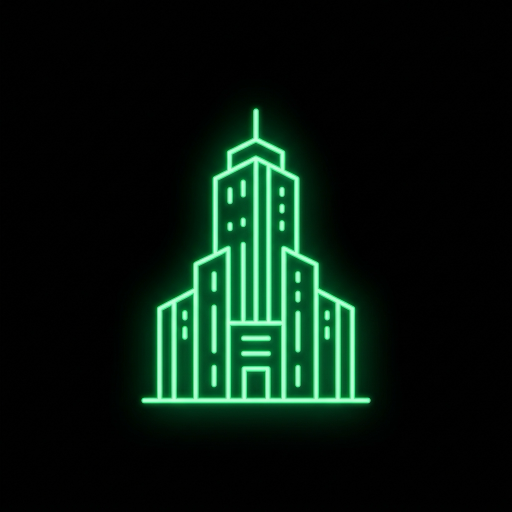
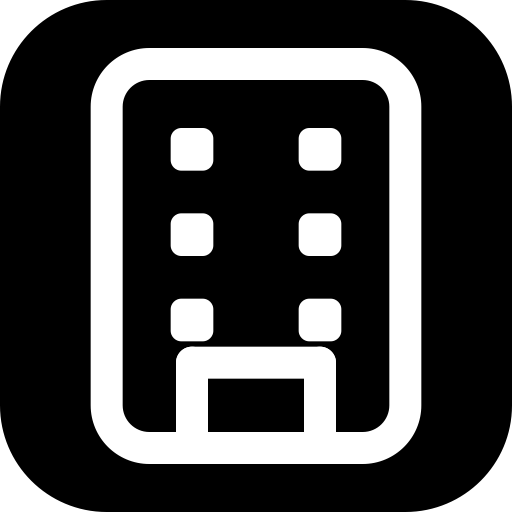
style: suppression des liserais colorés sur le manifeste/les cartes et passage des icônes de l'application en noir et blanc

diff --git a/css/components.css b/css/components.css
@@ -148,44 +148,16 @@
     height: 100%;
     position: relative;
     cursor: pointer;
-    background: var(--bg-tertiary);
+    background: var(--bg-secondary);
     border: 1px solid var(--border-color);
     transition: all var(--transition-normal);
     overflow: hidden;
-}
-
-/* Left accent border by status */
-.elevator-card::before {
-    content: '';
-    position: absolute;
-    left: 0;
-    top: 0;
-    bottom: 0;
-    width: 3px;
-    border-radius: 3px 0 0 3px;
-    background: var(--border-color);
-    transition: background var(--transition-normal), box-shadow var(--transition-normal);
+    box-shadow: 0 1px 3px rgba(15, 23, 42, 0.02), 0 1px 2px rgba(15, 23, 42, 0.04);
 }
 
 .elevator-card:hover {
-    transform: translateY(-3px);
-    border-color: var(--border-hover);
-    box-shadow: 0 12px 32px rgba(0, 0, 0, 0.4);
-}
-
-/* Status-colored left borders */
-.elevator-card:has(.badge-functional)::before {
-    background: var(--color-success);
-}
-
-.elevator-card:has(.badge-broken)::before {
-    background: var(--color-danger);
-    box-shadow: 0 2px 8px rgba(239, 68, 68, 0.25);
-    animation: pulseDanger 2s infinite;
-}
-
-.elevator-card:has(.badge-maintenance)::before {
-    background: var(--color-warning);
+    border-color: var(--accent-primary-border);
+    box-shadow: 0 4px 12px rgba(15, 23, 42, 0.04), 0 2px 4px rgba(15, 23, 42, 0.02);
 }
 
 .card-header {
@@ -1168,24 +1140,8 @@ textarea:focus {
 
 /* ── WELCOME / MANIFESTE ── */
 .welcome-association {
-    background: var(--bg-tertiary);
-    border: 1px solid var(--border-color);
-    border-radius: var(--radius-xl);
-    padding: 1.75rem;
-    margin-bottom: 1.5rem;
-    position: relative;
-    overflow: hidden;
-}
-
-.welcome-association::before {
-    content: '';
-    position: absolute;
-    top: 0;
-    left: 0;
-    right: 0;
-    height: 2px;
-    background: linear-gradient(90deg, var(--accent-primary), var(--nav-accent));
-    opacity: 0.7;
+    padding: 0.5rem 0;
+    margin-bottom: 2.5rem;
 }
 
 .assoc-header {
@@ -1245,11 +1201,11 @@ textarea:focus {
 }
 
 .manifest-highlight {
-    background: var(--bg-elevated);
-    border-left: 3px solid var(--accent-primary);
-    padding: 1rem 1.25rem;
-    border-radius: 0 var(--radius-md) var(--radius-md) 0;
-    margin: 1.25rem 0;
+    background: var(--bg-tertiary);
+    border: 1px solid var(--border-color);
+    padding: 1.25rem;
+    border-radius: var(--radius-md);
+    margin: 1.5rem 0;
 }
 
 .manifest-highlight h3 {

diff --git a/index.html b/index.html
@@ -90,7 +90,7 @@
         <div id="tab-accueil" class="page-panel active" role="tabpanel" aria-labelledby="tab-accueil">
 
             <!-- Manifeste du Collectif Plaine -->
-            <section class="welcome-association card glass">
+            <section class="welcome-association">
                 <div class="assoc-header">
                     <div class="assoc-badge">Manifeste du Collectif Plaine</div>
                     <h2>Notre cadre de vie se dégrade : locataires, unissons-nous pour faire valoir nos droits !</h2>